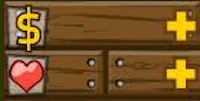
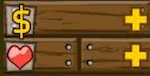
kgldf

diff --git a/src/TowerPanel.java b/src/TowerPanel.java
@@ -4,23 +4,37 @@ import java.awt.Color;
 import java.io.IOException;
 
 import javax.imageio.ImageIO;
+import javax.swing.JPanel;
 
 public class TowerPanel {
-	public final static int truewidth = 200;
+	public final static int truewidth = 150;
 	private int height, width;
-	private Image moneylivesimg;
+	private Image moneylivesimg, towerstitle;
 	private String PATH_PREFIX = "images/";
+	public Monkey[] monkeyarr;
 	
-	public TowerPanel(int h, int w) {
+	public TowerPanel(int h, int w, BTDMap m) {
 		height = h;
 		width = w;
 		moneylivesimg = getImage("Money_and_Lives.png");
+		towerstitle = getImage("Towers_Title.png");
+		monkeyarr = new Monkey[8];
+		initializeMonkeys(m);
 	}
 	
-	public void draw(Graphics g, BTDMap m) {
+	public void draw(Graphics g, BTDMap m, JPanel panel) {
 		g.setColor(Color.BLUE);
 		g.fillRect(m.getWidth(), 0, width, height);
-//		g.drawImage(img, m.getWidth(), 0, width, height, null);
+		g.drawImage(towerstitle, m.getWidth(), 0, width, 143, null);
+		g.drawImage(moneylivesimg, m.getWidth(), 143, width, 76, null);
+		for(Monkey monkey: monkeyarr) {
+			monkey.draw(g, panel);
+		}
+	}
+	
+	public void initializeMonkeys(BTDMap m) {
+		monkeyarr[0] = new DartMonkey(m.getWidth(), 219);
+//		monkeyarr[1] = new TackShooter(m.getWidth() + )
 	}
 	
 	protected Image getImage(String fn) {

diff --git a/src/BTDMap.java b/src/BTDMap.java
@@ -7,6 +7,7 @@ import java.util.HashMap;
 import java.util.HashSet;
 
 import javax.imageio.ImageIO;
+import javax.swing.JPanel;
 
 public abstract class BTDMap {
 	protected Pixel[][] grid;
@@ -20,7 +21,7 @@ public abstract class BTDMap {
 	protected int height, width;
 	protected double Hratio, Wratio;
 	private String PATH_PREFIX = "images/";
-	Level level = new Level();
+//	Level level = new Level();
 	public static double origH = 520, origW = 700;
 	protected int SQUARESIZE = 50;
 	protected int health;
@@ -30,7 +31,7 @@ public abstract class BTDMap {
 	public BTDMap(int r, int c, int spx, int spy) {
 		height = r;
 		width = c;
-		tp = new TowerPanel(height, TowerPanel.truewidth);
+		tp = new TowerPanel(height, TowerPanel.truewidth, this);
 		grid = new Pixel[height][width];
 		Hratio = (height/origH);
 		Wratio = (width/origW);
@@ -182,9 +183,9 @@ public abstract class BTDMap {
 		return grid;
 	}
 	
-	public void draw(Graphics g) {
+	public void draw(Graphics g, JPanel panel) {
 		g.drawImage(img, 0, 0, width, height, null);
-		tp.draw(g, this);
+		tp.draw(g, this, panel);
 	}
 	
 	protected Image getImage(String fn) {

diff --git a/src/BTDGameRunner.java b/src/BTDGameRunner.java
@@ -26,12 +26,12 @@ public class BTDGameRunner {
 	private void start() {
 		//Testing balloon and Monkey
 		m1 = new Map1(panelheight,panelwidth);
-		m1.addBloon(m1.createBloon(4));
+//		m1.addBloon(m1.createBloon(4));
 		panel = new JPanel() {
 			@Override
 			public void paintComponent(Graphics g) {
 				super.paintComponent(g);
-				m1.draw(g);
+				m1.draw(g, panel);
 				if (m1.isClicked()){
 					g.drawImage(m1.getUserSelection(),m1.getUserX(),m1.getUserY(),SQUARESIZE,SQUARESIZE,null);
 				}
